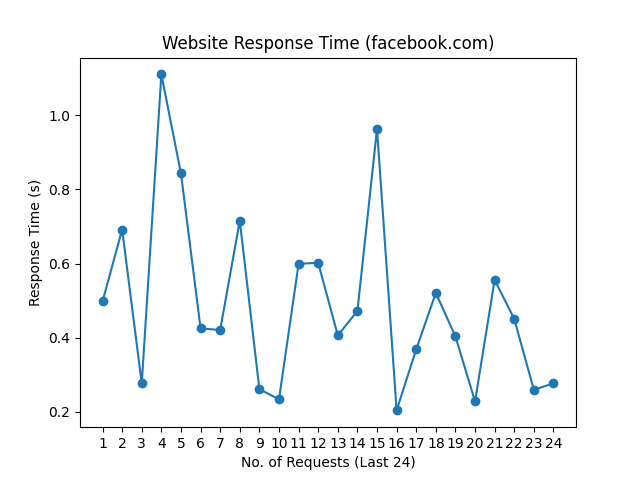
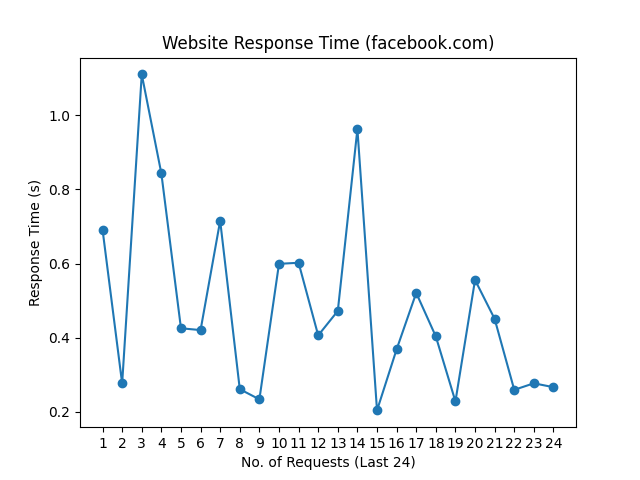
update README.md, history and graph

Changed region(s): [[0.1562, 0.125, 0.875, 0.875]]

diff --git a/README.md b/README.md
@@ -1,10 +1,10 @@
 # Web Monitoring
 
-Last Checked: 18/08/2024 08:19
+Last Checked: 19/08/2024 08:18
 
 | Website | Response Time (s) | Status | Avg Uptime (%) |
 |---------|-------------------|--------|----------------|
 | www.thiswebsiteisdown.net | 0 <br> <img src="graph/thiswebsiteisdown.net.png" alt="Graph" width="200" height="200">  | ❌ Down | 0.00 |
-| www.netflix.com | 0.523247 <br> <img src="graph/netflix.com.png" alt="Graph" width="200" height="200">  | ✅ Up | 100.00 |
-| www.google.com | 0.082743 <br> <img src="graph/google.com.png" alt="Graph" width="200" height="200">  | ✅ Up | 100.00 |
-| www.facebook.com | 0.276697 <br> <img src="graph/facebook.com.png" alt="Graph" width="200" height="200">  | ✅ Up | 100.00 |
+| www.netflix.com | 0.416695 <br> <img src="graph/netflix.com.png" alt="Graph" width="200" height="200">  | ✅ Up | 100.00 |
+| www.google.com | 0.072968 <br> <img src="graph/google.com.png" alt="Graph" width="200" height="200">  | ✅ Up | 100.00 |
+| www.facebook.com | 0.266215 <br> <img src="graph/facebook.com.png" alt="Graph" width="200" height="200">  | ✅ Up | 100.00 |
